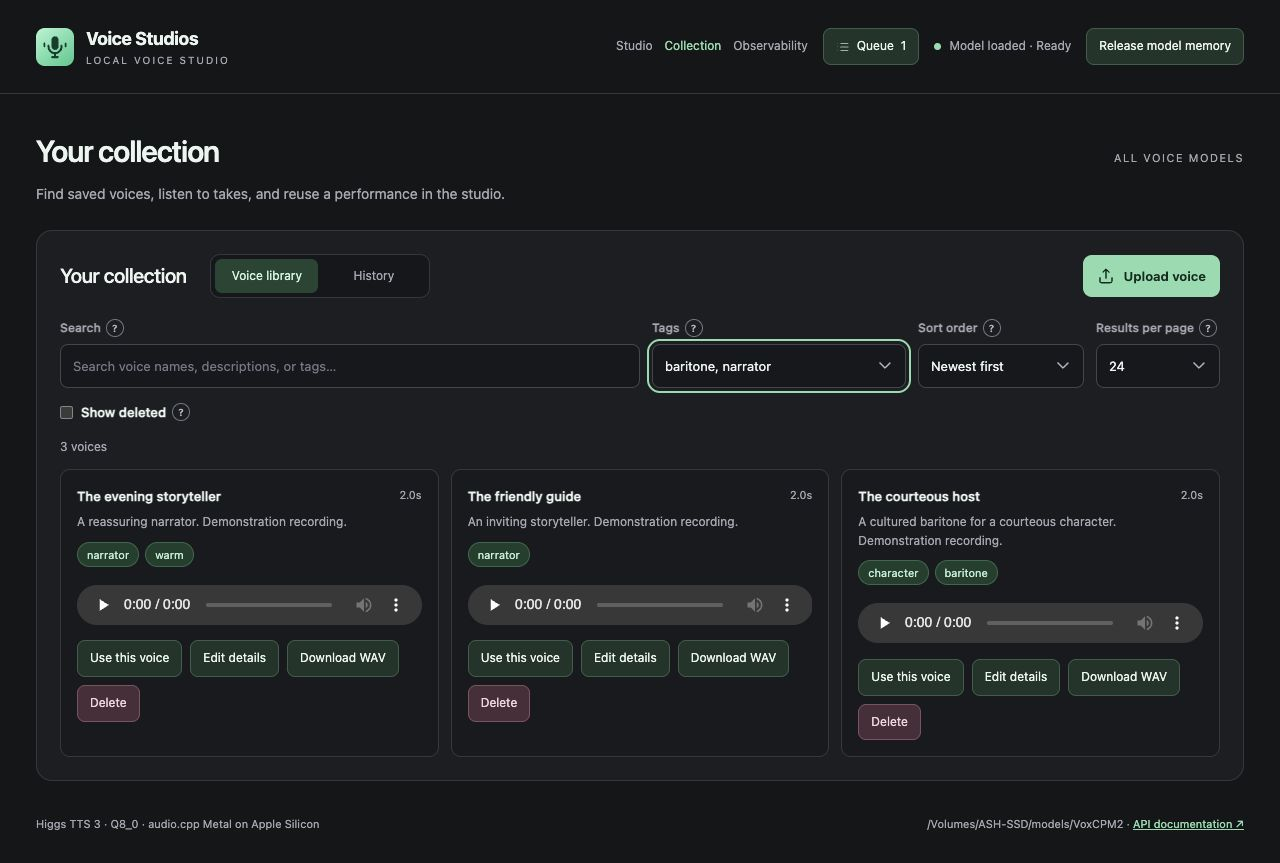
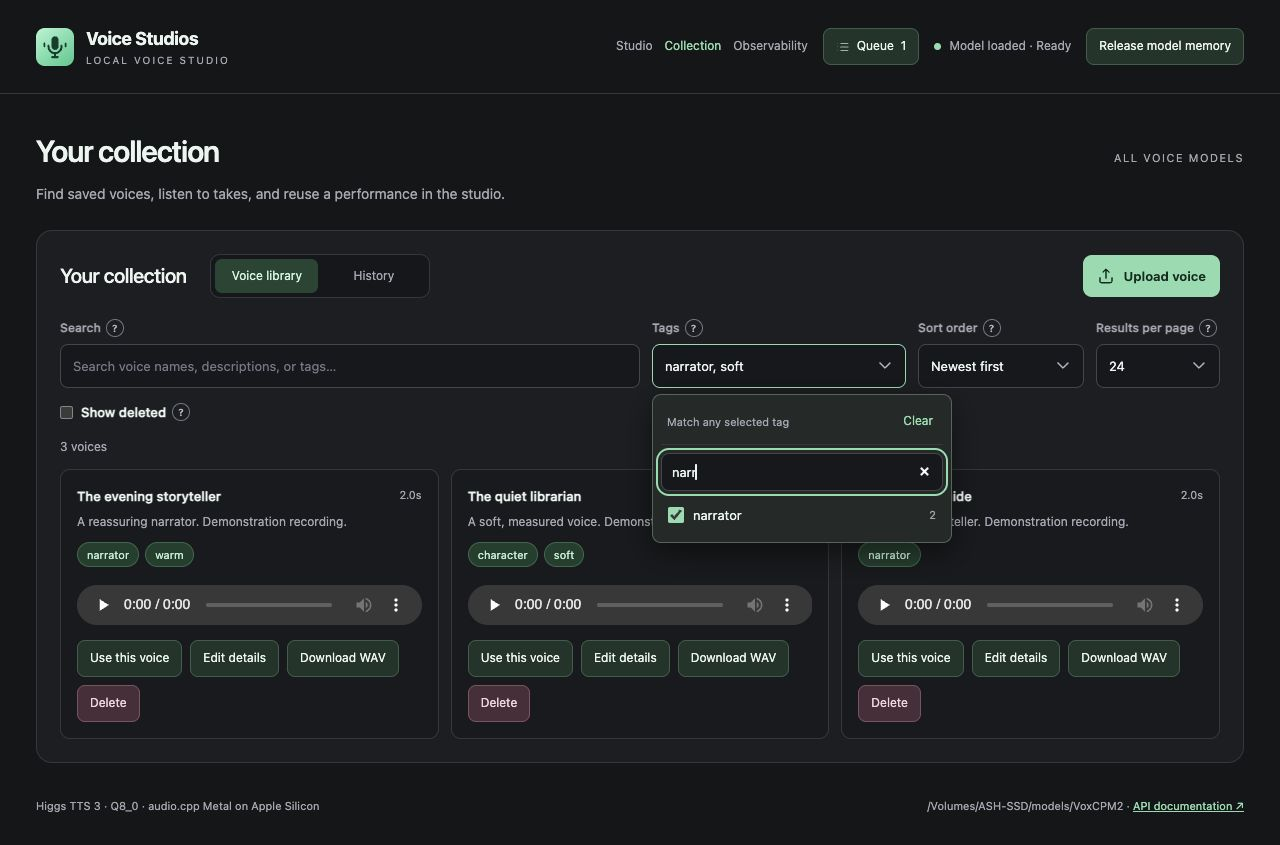
Add search inside the Collection tag selector

diff --git a/ui/index.html b/ui/index.html
@@ -121,7 +121,8 @@ input:disabled::placeholder,textarea:disabled::placeholder{color:#aeb5c0;opacity
 .tag-options-heading button{padding:4px;flex:none}.tag-options-heading button:disabled{cursor:default}
 .tag-options label{display:flex;align-items:center;gap:9px;padding:9px 7px;border-radius:5px;cursor:pointer;color:var(--text);font-size:13px;font-weight:400}
 .tag-options label:hover,.tag-options label:focus-within{background:#354a3c}
-.tag-options input{width:16px;height:16px;margin:0;flex:none;accent-color:var(--accent)}
+.tag-options input[type=checkbox]{width:16px;height:16px;margin:0;flex:none;accent-color:var(--accent)}
+#tag-search{width:100%;height:38px;margin:3px 0 5px;padding:8px 10px}
 .tag-options label span{min-width:0;overflow-wrap:anywhere}.tag-options label small{margin-left:auto;color:var(--muted);font-size:11px}
 .tag-options .hint{margin:8px}
 @media(max-width:900px){.collection-filters{grid-template-columns:minmax(0,1fr) 166px 124px}.collection-search{grid-column:1 / -1}.collection-filters[data-history=true] .collection-search{grid-column:auto}}
@@ -154,7 +155,7 @@ input:disabled::placeholder,textarea:disabled::placeholder{color:#aeb5c0;opacity
 <section class="panel library" id="voice-catalog"><div class="section-top collection-toolbar"><div class="collection-heading"><h2>Your collection</h2><div class="tabs" role="tablist" aria-label="Collection"><button type="button" role="tab" data-collection="voices" aria-selected="true">Voice library</button><button type="button" role="tab" data-collection="history" aria-selected="false">History</button></div></div><button type="button" class="primary collection-upload" id="upload-voice"><svg viewBox="0 0 24 24" fill="none" stroke="currentColor" stroke-width="1.8" stroke-linecap="round" stroke-linejoin="round" aria-hidden="true"><path d="M12 15V3m-4 4 4-4 4 4M4 14v5a2 2 0 0 0 2 2h12a2 2 0 0 0 2-2v-5"/></svg>Upload voice</button></div><div class="collection-filters" id="collection-filters">
 <div class="collection-search"><label for="search">Search</label><input id="search" type="search" placeholder="Search voice names, descriptions, or tags…"></div>
 <div id="voice-filters" class="voice-filter-fields">
-<div class="collection-tags" id="collection-tags"><label for="tag-filter">Tags</label><button id="tag-filter" type="button" class="tag-select" aria-expanded="false" aria-controls="tag-options"><span id="tag-filter-summary">All tags</span><svg viewBox="0 0 12 8" width="12" height="8" aria-hidden="true"><path d="m1 1 5 5 5-5" fill="none" stroke="currentColor" stroke-width="1.5" stroke-linecap="round" stroke-linejoin="round"/></svg></button><div id="tag-options" class="tag-options" hidden><div class="tag-options-heading"><span>Match any selected tag</span><button type="button" id="tag-clear" class="plain">Clear</button></div><div id="tag-choices" role="group" aria-label="Available tags"></div></div></div>
+<div class="collection-tags" id="collection-tags"><label for="tag-filter">Tags</label><button id="tag-filter" type="button" class="tag-select" aria-expanded="false" aria-controls="tag-options"><span id="tag-filter-summary">All tags</span><svg viewBox="0 0 12 8" width="12" height="8" aria-hidden="true"><path d="m1 1 5 5 5-5" fill="none" stroke="currentColor" stroke-width="1.5" stroke-linecap="round" stroke-linejoin="round"/></svg></button><div id="tag-options" class="tag-options" hidden><div class="tag-options-heading"><span>Match any selected tag</span><button type="button" id="tag-clear" class="plain">Clear</button></div><label for="tag-search" class="sr-only">Search tags</label><input type="search" id="tag-search" placeholder="Search tags…" autocomplete="off" spellcheck="false"><div id="tag-choices" role="group" aria-label="Available tags"></div></div></div>
 <div><label for="voice-sort">Sort order</label><select id="voice-sort"><option value="newest">Newest first</option><option value="updated">Recently edited</option><option value="name">Name A–Z</option></select></div>
 </div>
 <div class="collection-page-size"><label for="page-size">Results per page</label><select id="page-size"><option>12</option><option selected>24</option><option>48</option><option>100</option></select></div>

diff --git a/ui/app.js b/ui/app.js
@@ -399,17 +399,22 @@ function updateTagSummary(){
 }
 function renderTagChoices(){
  const list=$('tag-choices');list.replaceChildren();
- for(const tag of availableTags){
+ const query=$('tag-search').value.trim().toLocaleLowerCase();
+ const matches=availableTags.filter(tag=>tag.name.toLocaleLowerCase().includes(query));
+ for(const tag of matches){
   const label=el('label'),input=el('input');input.type='checkbox';input.value=tag.name;input.checked=selectedTags.has(tag.name);
   input.onchange=()=>{if(input.checked)selectedTags.add(tag.name);else selectedTags.delete(tag.name);updateTagSummary();catalogOffset=0;loadVoicePage().catch(exc=>error(exc.message))};
   label.append(input,el('span',tag.name),el('small',tag.count));list.append(label);
  }
- if(!availableTags.length)list.append(el('p','No tags in this collection yet.','hint'));
+ if(!matches.length)list.append(el('p',availableTags.length?'No tags match your search.':'No tags in this collection yet.','hint'));
  updateTagSummary();
 }
-function closeTagChoices(restoreFocus=false){$('tag-options').hidden=true;$('tag-filter').setAttribute('aria-expanded','false');if(restoreFocus)$('tag-filter').focus()}
-$('tag-filter').onclick=()=>{const open=$('tag-options').hidden;$('tag-options').hidden=!open;$('tag-filter').setAttribute('aria-expanded',String(open))};
-$('tag-filter').onkeydown=event=>{if(event.key==='ArrowDown'){event.preventDefault();$('tag-options').hidden=false;$('tag-filter').setAttribute('aria-expanded','true');($('tag-choices').querySelector('input')||$('tag-clear')).focus()}};
+function closeTagChoices(restoreFocus=false){$('tag-options').hidden=true;$('tag-filter').setAttribute('aria-expanded','false');if($('tag-search').value){$('tag-search').value='';renderTagChoices()}if(restoreFocus)$('tag-filter').focus()}
+function openTagChoices(){$('tag-options').hidden=false;$('tag-filter').setAttribute('aria-expanded','true');$('tag-search').focus()}
+$('tag-filter').onclick=()=>{if($('tag-options').hidden)openTagChoices();else closeTagChoices()};
+$('tag-filter').onkeydown=event=>{if(event.key==='ArrowDown'){event.preventDefault();openTagChoices()}};
+$('tag-search').oninput=renderTagChoices;
+$('tag-search').onkeydown=event=>{if(event.key==='ArrowDown'){event.preventDefault();$('tag-choices').querySelector('input')?.focus()}};
 $('tag-clear').onclick=()=>{selectedTags.clear();renderTagChoices();closeTagChoices(true);catalogOffset=0;loadVoicePage().catch(exc=>error(exc.message))};
 document.addEventListener('pointerdown',event=>{if(!$('collection-tags').contains(event.target))closeTagChoices()});
 $('collection-tags').addEventListener('keydown',event=>{if(event.key==='Escape'&&!$('tag-options').hidden){event.preventDefault();closeTagChoices(true)}});

diff --git a/AGENTS.md b/AGENTS.md
@@ -53,7 +53,7 @@ All pages use the generator shell in `ui/index.html`, including its exact header
 
 The entire header brand (icon/title/subtitle) is one native home link to Studio on every page. Collection puts Voice library before History and defaults to voices unless explicitly linked to history. Voice/take deletion requires a named confirmation dialog; Cancel/Escape must not send DELETE. Show deleted is a separate list with Restore, never permanent purge. Generator DELETE/restore endpoints use validated IDs and separate ignored `collection-deletions/<kind>-<id>.json` markers in media storage; preserve all audio, metadata, indexes, queued references and job results. Do not turn deletion into media removal or alter frozen generation records. Lists, tags, searches and pagination filter by deleted state; the active voice picker excludes deleted entries. Restore is idempotent. Keep list requests ordered against tab/filter races, refresh counts/tags and clamp pagination after deletion. Read-only/missing storage errors stay visible without confirming success. Test only disposable fixtures, including canceled/failed requests and queued use of a deleted voice.
 
-Collection filters share one desktop row: search uses half its width, Tags uses an existing-tag checkbox dropdown, and sort/page size stay narrow. Show up to two selected tag names, then an X selected count; long names ellipsize without widening the row. Match any selected exact tag via repeated `tags` query values; keep legacy single `tag` working. Search/sort/size/tag changes reset pagination. Refresh selected tags against current active/deleted tag choices. Keep the dropdown keyboard accessible with ArrowDown, Tab, Space, Escape/focus return, outside-click dismissal and Clear. Wrap controls at tablet/phone widths without horizontal overflow. History retains its search/page-size controls and hides voice-only filters.
+Collection filters share one desktop row: search uses half its width, Tags uses a searchable existing-tag checkbox dropdown, and sort/page size stay narrow. Show up to two selected tag names, then an X selected count; long names ellipsize without widening the row. Match any selected exact tag via repeated `tags` query values; keep legacy single `tag` working. Search/sort/size/tag changes reset pagination. Refresh selected tags against current active/deleted tag choices. Focus tag search on opening; filtering choices must preserve all selections, including hidden ones, and report no matches. Closing resets only the search. Keep the dropdown keyboard accessible with ArrowDown, Tab, Space, Escape/focus return, outside-click dismissal and Clear. Wrap controls at tablet/phone widths without horizontal overflow. History retains its search/page-size controls and hides voice-only filters.
 
 Wrap dynamic form labels and inputs together in `.control-field` elements, with `.control-stack` spacing between fields. Keep help circles small with a larger invisible pointer target. Empty model-control groups must not leave gaps; check Higgs Emotion/Prosody/Style and long labels at phone and sidebar widths.
 

diff --git a/skill/local-voice-studio/SKILL.md b/skill/local-voice-studio/SKILL.md
@@ -37,7 +37,7 @@ The Design tab is enabled whenever any capable model is ready. Entering a source
 
 Upload reference audio with `POST /api/references` (multipart file and optional transcript) or save directly to Collection with `POST /api/voices/upload` (file, name, description, transcript, repeated tags). Limits: 25 MiB, 1–30 seconds, 8–96 kHz, mono/stereo; preserve originals. Saved voice metadata supports names, descriptions, tags and exact transcripts. Search/list with `/api/voices`, get/edit `/api/voices/{id}`, tags `/api/voice-tags`. Save a generated take with `/api/voices` and its output_id. Read the live schema for precise fields.
 
-Collection has a compact search/tag/sort/page-size row. Tags is a dropdown of existing labels; one or two names are shown, then an X selected count. API `GET /api/voices?tags=romanian&tags=narrator` matches any selected exact tag, combined with search/sort/pagination/deleted. Single `tag` still works and joins the same selection when supplied. Clear all tags to remove the tag filter.
+Collection has a compact search/tag/sort/page-size row. Tags is a searchable dropdown of existing labels; one or two names are shown, then an X selected count. API `GET /api/voices?tags=romanian&tags=narrator` matches any selected exact tag, combined with search/sort/pagination/deleted. Single `tag` still works and joins the same selection when supplied. Searching within the dropdown preserves selected tags even when hidden by its query. Clear all tags to remove the tag filter.
 
 Collection opens Voice library first, with History to its right. The brand icon/title/subtitle link back to Studio. UI Delete requires a confirmation popup; Cancel/Escape keeps the entry. `DELETE /api/voices/{id}` or `/api/artifacts/{id}` removes it from the active collection; POST the same path plus `/restore` to restore. List deleted only with `deleted=true` on voices/history/voice-tags; the UI's Show deleted filter provides Restore. Responses contain id, kind (voices/outputs), deleted and changed; repeats return changed:false. Audio, metadata, job results and queued references stay intact. This is reversible catalog deletion, not disk cleanup or URL revocation. Separate private markers in the configured data folder persist the state; never purge them or audio as routine cleanup. The queue API has no collection lifecycle routes.
 

diff --git a/README.md b/README.md
@@ -28,7 +28,7 @@ Higgs starts new UI settings with a 2,000-token audio limit. If one option canno
 
 ![Full Generate page with Higgs performance controls and audio playback](docs/images/studio-page.jpg)
 
-**Collection:** browse previous takes or save and upload voices with names, descriptions, and searchable tags. Search, tag selection, sort order, and page size share a compact row; select existing tags to find voices matching any of them.
+**Collection:** browse previous takes or save and upload voices with names, descriptions, and searchable tags. Search, tag selection, sort order, and page size share a compact row; search and select existing tags to find voices matching any of them.
 
 Uploaded voices are transcribed locally with a small CPU model. Listen, correct the detected words, and save them with the voice; automatic transcription can also be switched off. [Upload transcription](docs/transcription.md) explains setup and API use.
 
